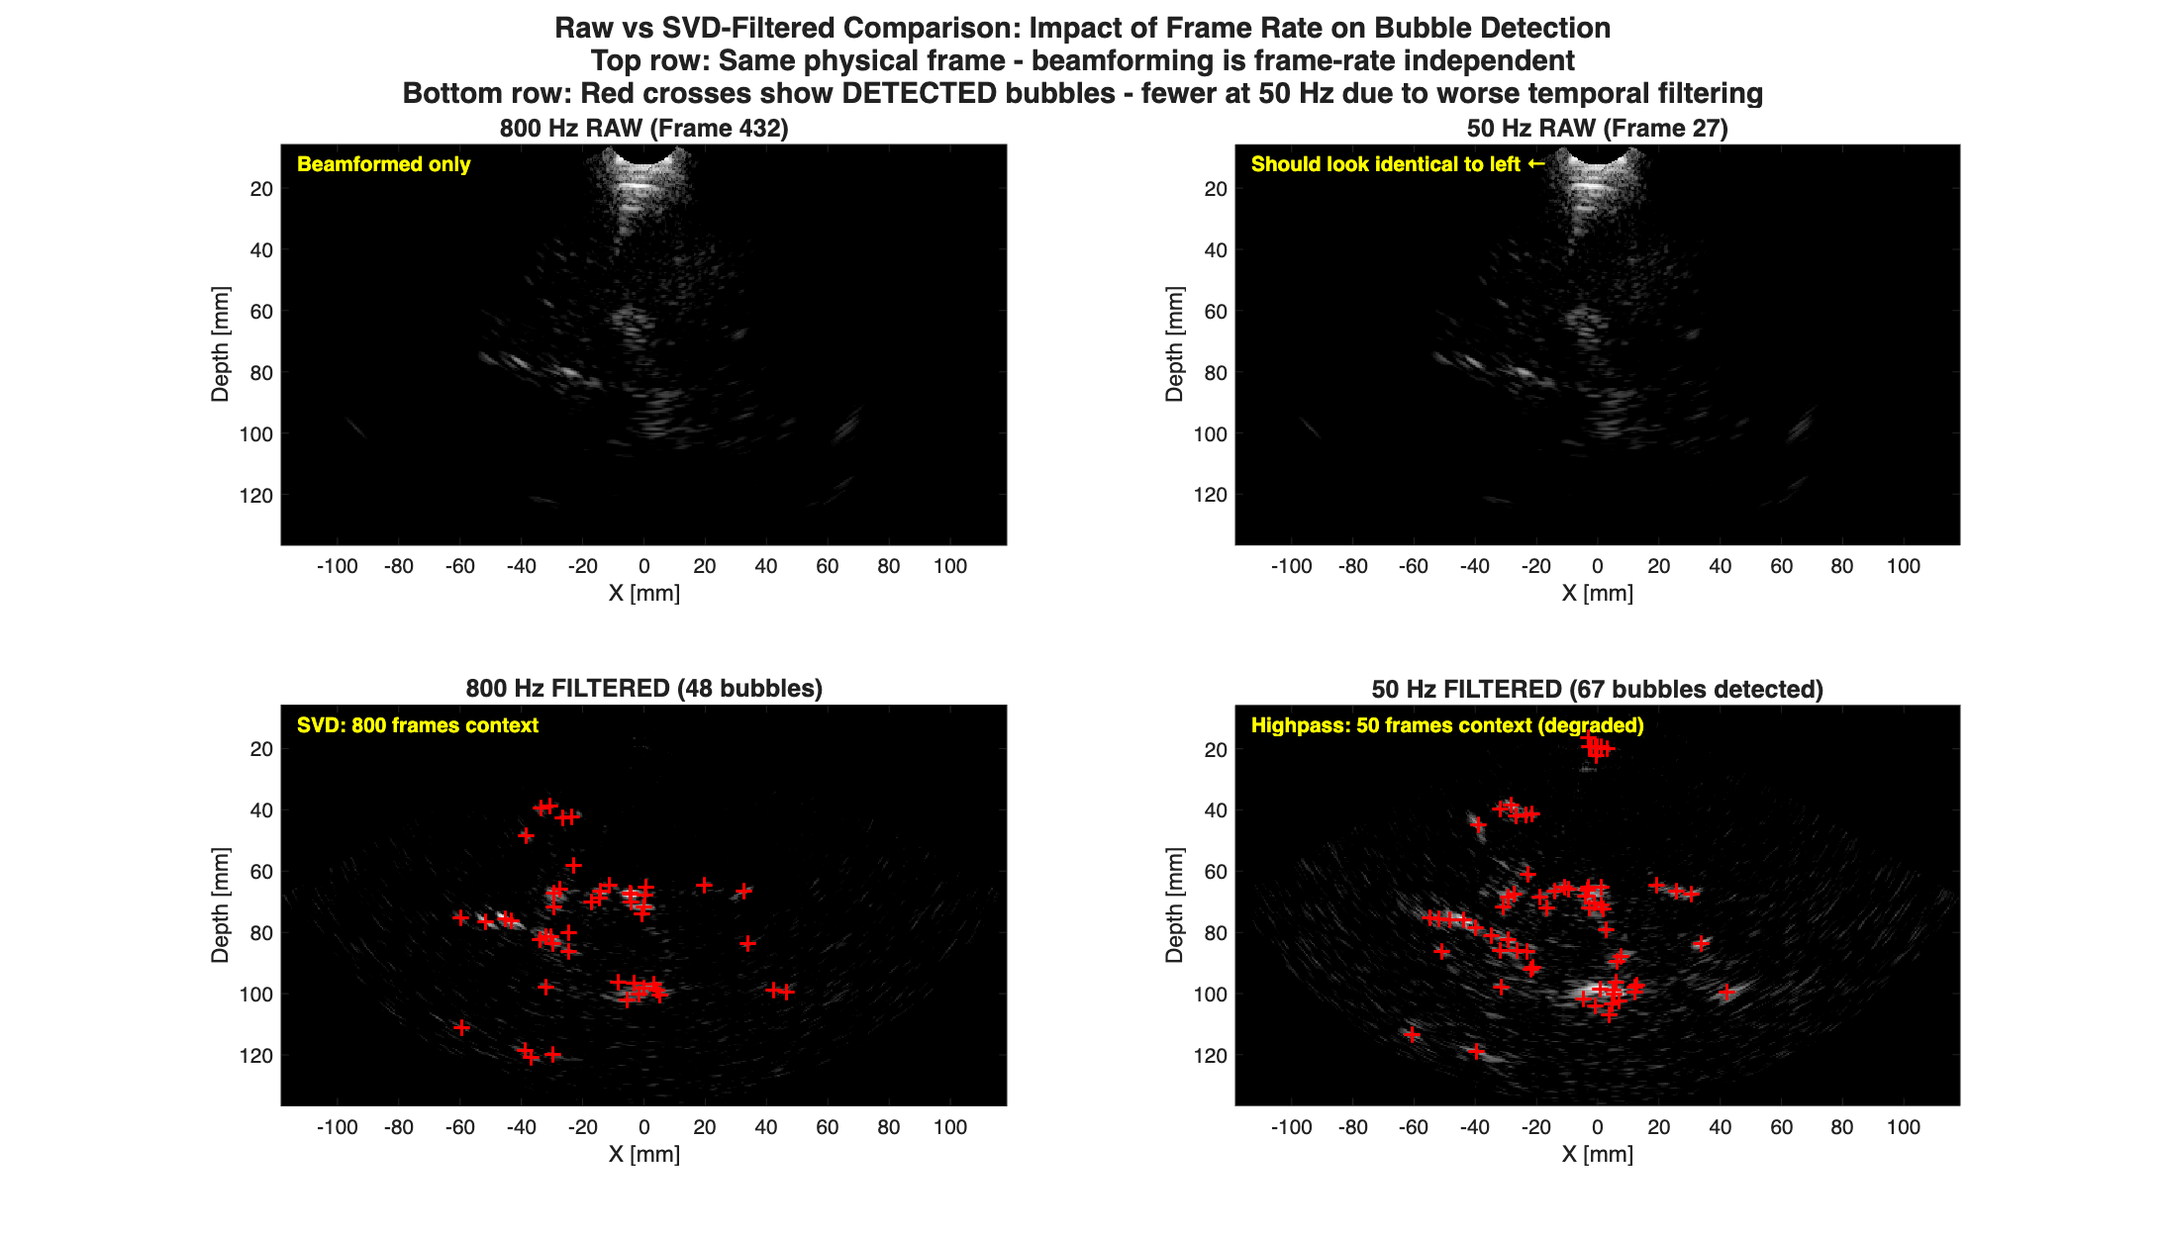
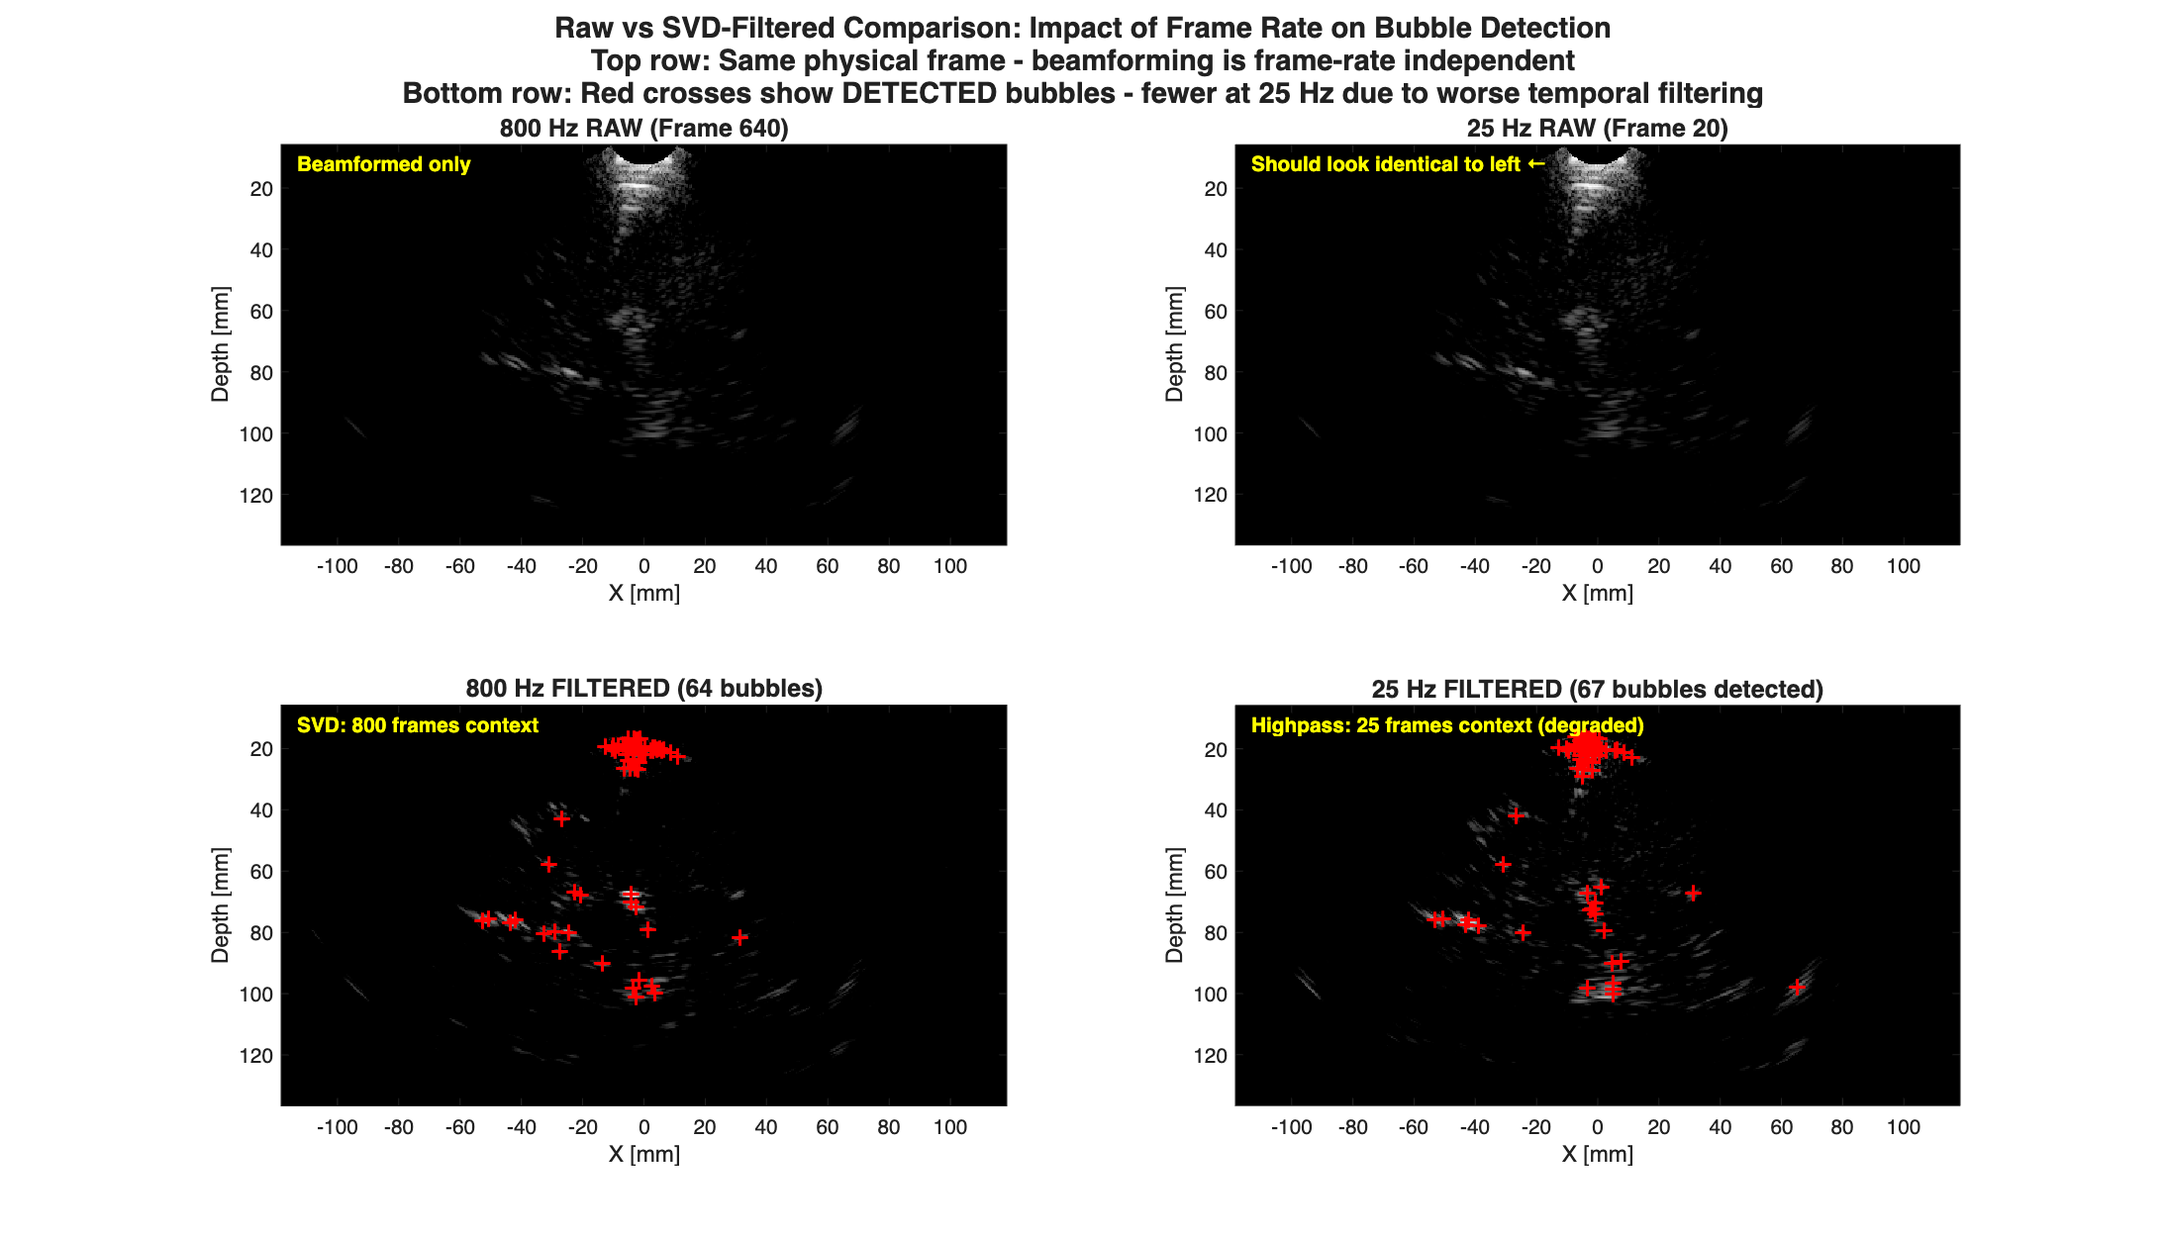
swept frame rates

diff --git a/2_localisation_and_display/compare_frame_rates.m b/2_localisation_and_display/compare_frame_rates.m
@@ -19,7 +19,7 @@ clear; clc; close all;
 %% ========== USER PARAMETERS ==========
 % Target frame rate for downsampled comparison (Hz)
 % Must be < 800 Hz. Recommended values: 20, 50, 100, 200
-target_framerate = 50; % Hz
+target_framerate = 25; % Hz
 
 % High-pass filter cutoff frequency (Hz)
 % Automatically computed as 80% of Nyquist frequency for fair comparison
@@ -48,10 +48,10 @@ num_frames_800Hz = size(IQ_800Hz, 3);
 
 % Apply high-pass filtering to reveal bubbles
 % SVD filtering commented out - using temporal high-pass filter instead
-% sv_cutoff_800Hz = 30;
+% sv_cutoff_800Hz = 100;
 % fprintf('Applying SVD filtering to 800 Hz data (%d frames, removing %d singular values = %.1f%% of frames)...\n', ...
 %     num_frames_800Hz, sv_cutoff_800Hz, 100*sv_cutoff_800Hz/num_frames_800Hz);
-% IQF_800Hz = filterSVD(IQ_800Hz, 1);
+% IQF_800Hz = filterSVD(IQ_800Hz, sv_cutoff_800Hz);
 
 fprintf('Applying high-pass filter to 800 Hz data (%d frames, cutoff = %d Hz)...\n', ...
     num_frames_800Hz, cutoff_freq);
@@ -81,7 +81,7 @@ num_frames_low = size(IQ_low, 3);
 % sv_cutoff_low = round(sv_cutoff_800Hz * num_frames_low / num_frames_800Hz);
 % fprintf('Applying SVD filtering to low framerate data (%d frames, removing %d singular values = %.1f%% of frames)...\n', ...
 %     num_frames_low, sv_cutoff_low, 100*sv_cutoff_low/num_frames_low);
-% IQF_low = filterSVD(IQ_low, 1);
+% IQF_low = filterSVD(IQ_low, sv_cutoff_low);
 
 fprintf('Applying high-pass filter to %.1f Hz data (%d frames, cutoff = %d Hz)...\n', ...
     framerate_low, num_frames_low, cutoff_freq);
@@ -109,7 +109,10 @@ if ~isempty(Bubbles_800Hz_array)
     fprintf('  Mean track length: %.1f frames\n', mean(Bubbles_800Hz_array(:,5)));
     fprintf('  Tracks > 5 frames: %.1f%%\n', ...
         100 * sum(Bubbles_800Hz_array(:,5) > 5) / size(Bubbles_800Hz_array, 1));
+else
+    warning('No bubbles detected at 800 Hz! Check filtering parameters.');
 end
+
 fprintf('%.1f Hz bubbles: %d total\n', framerate_low, size(Bubbles_low_array, 1));
 if ~isempty(Bubbles_low_array)
     fprintf('  Frame range: %.0f to %.0f\n', ...
@@ -117,9 +120,18 @@ if ~isempty(Bubbles_low_array)
     fprintf('  Mean track length: %.1f frames\n', mean(Bubbles_low_array(:,5)));
     fprintf('  Tracks > 5 frames: %.1f%%\n', ...
         100 * sum(Bubbles_low_array(:,5) > 5) / size(Bubbles_low_array, 1));
+else
+    warning('No bubbles detected at %.1f Hz! This may be due to:', framerate_low);
+    fprintf('  - High-pass filter cutoff (%.1f Hz) may be too low (Nyquist = %.1f Hz)\n', ...
+        cutoff_freq, framerate_low/2);
+    fprintf('  - Insufficient temporal filtering with only %d frames\n', num_frames_low);
+    fprintf('  - Consider increasing target_framerate or using more data\n');
 end
-fprintf('Detection ratio: %.1fHz detected %.1f%% of bubbles compared to 800Hz\n', ...
-    framerate_low, 100 * size(Bubbles_low_array, 1) / max(1, size(Bubbles_800Hz_array, 1)));
+
+if ~isempty(Bubbles_800Hz_array)
+    fprintf('Detection ratio: %.1fHz detected %.1f%% of bubbles compared to 800Hz\n', ...
+        framerate_low, 100 * size(Bubbles_low_array, 1) / max(1, size(Bubbles_800Hz_array, 1)));
+end
 
 %% 5. Calculate metrics for both frame rates
 fprintf('\n=== Calculating Tracking Metrics ===\n');
@@ -145,7 +157,8 @@ pixel_size = 0.1*[1 1];
 fprintf('Generating 800 Hz density map...\n');
 % Filter by track length for better quality
 kept_indices_800Hz = Bubbles_800Hz_array(:, 5) > min_size_track;
-fprintf('  Using %d bubbles (track length > %d)\n', sum(kept_indices_800Hz), min_size_track);
+num_bubbles_800Hz = sum(kept_indices_800Hz);
+fprintf('  Using %d bubbles (track length > %d)\n', num_bubbles_800Hz, min_size_track);
 density_map_800Hz = displayImageFromPositions(...
     Bubbles_800Hz_array(kept_indices_800Hz, 2), ...  % Z positions
     Bubbles_800Hz_array(kept_indices_800Hz, 1), ...  % X positions
@@ -159,7 +172,8 @@ fprintf('Generating 800 Hz downsampled density map (every %d bubbles)...\n', dow
 kept_indices_800Hz_all = find(Bubbles_800Hz_array(:, 5) > min_size_track);
 % Downsample the kept bubbles to match low framerate observation count
 downsampled_indices_800Hz = kept_indices_800Hz_all(1:downsample_factor:end);
-fprintf('  Using %d bubbles (downsampled from %d)\n', length(downsampled_indices_800Hz), length(kept_indices_800Hz_all));
+num_bubbles_800Hz_downsampled = length(downsampled_indices_800Hz);
+fprintf('  Using %d bubbles (downsampled from %d)\n', num_bubbles_800Hz_downsampled, length(kept_indices_800Hz_all));
 density_map_800Hz_downsampled = displayImageFromPositions(...
     Bubbles_800Hz_array(downsampled_indices_800Hz, 2), ...  % Z positions
     Bubbles_800Hz_array(downsampled_indices_800Hz, 1), ...  % X positions
@@ -169,14 +183,28 @@ fprintf('  Non-zero pixels: %d\n', sum(density_map_800Hz_downsampled(:) > 0));
 
 % Low framerate density map
 fprintf('Generating %.1f Hz density map...\n', framerate_low);
-kept_indices_low = Bubbles_low_array(:, 5) > min_size_track;
-fprintf('  Using %d bubbles (track length > %d)\n', sum(kept_indices_low), min_size_track);
-density_map_low = displayImageFromPositions(...
-    Bubbles_low_array(kept_indices_low, 2), ...  % Z positions
-    Bubbles_low_array(kept_indices_low, 1), ...  % X positions
-    ZX_boundaries, grid_size, pixel_size);
-fprintf('  Density map range: [%.6f, %.6f]\n', min(density_map_low(:)), max(density_map_low(:)));
-fprintf('  Non-zero pixels: %d\n', sum(density_map_low(:) > 0));
+if ~isempty(Bubbles_low_array)
+    kept_indices_low = Bubbles_low_array(:, 5) > min_size_track;
+    num_bubbles_low = sum(kept_indices_low);
+    fprintf('  Using %d bubbles (track length > %d)\n', num_bubbles_low, min_size_track);
+
+    if num_bubbles_low > 0
+        density_map_low = displayImageFromPositions(...
+            Bubbles_low_array(kept_indices_low, 2), ...  % Z positions
+            Bubbles_low_array(kept_indices_low, 1), ...  % X positions
+            ZX_boundaries, grid_size, pixel_size);
+        fprintf('  Density map range: [%.6f, %.6f]\n', min(density_map_low(:)), max(density_map_low(:)));
+        fprintf('  Non-zero pixels: %d\n', sum(density_map_low(:) > 0));
+    else
+        warning('No bubbles with track length > %d frames. Creating empty density map.', min_size_track);
+        density_map_low = zeros(grid_size);
+        num_bubbles_low = 0;
+    end
+else
+    warning('No bubbles detected at %.1f Hz. Creating empty density map.', framerate_low);
+    density_map_low = zeros(grid_size);
+    num_bubbles_low = 0;
+end
 
 %% 7. Calculate image quality metrics
 fprintf('\n=== Calculating Image Quality Metrics ===\n');
@@ -287,14 +315,157 @@ if ~isnan(ssim_value)
     fprintf('\nStructural similarity (SSIM): %.3f\n', ssim_value);
 end
 
-%% 9. Create visualizations
+%% 9. Generate Power Doppler Images
+fprintf('\n=== Generating Power Doppler Images ===\n');
+
+% Select a representative frame for visualization
+frame_idx = round(num_frames_800Hz / 2); % Middle frame
+frame_idx_low = ceil(frame_idx / downsample_factor);
+
+fprintf('Visualizing frame %d (800 Hz) and frame %d (%.1f Hz)\n', ...
+    frame_idx, frame_idx_low, framerate_low);
+
+% Create Power Doppler figure
+fig_power_doppler = figure('Name', 'Power Doppler Comparison', 'Position', [100 100 1600 600]);
+
+% 800 Hz Power Doppler
+subplot(1, 2, 1);
+% Convert to power (magnitude squared) and to dB
+power_doppler_800 = abs(IQF_800Hz(:,:,frame_idx)).^2;
+power_doppler_800_dB = 10*log10(power_doppler_800 / max(power_doppler_800(:)));
+
+% Scan conversion to Cartesian coordinates
+[power_800_scan, SpaceInfo] = scanConversion(power_doppler_800_dB, ...
+    BFStruct.R_extent, BFStruct.Phi_extent, 512);
+
+imagesc(SpaceInfo.extentX, fliplr(-SpaceInfo.extentY), power_800_scan);
+colormap(gca, hot(256));
+caxis([-40 0]); % 40 dB dynamic range
+colorbar;
+axis equal; axis tight;
+title(sprintf('800 Hz Power Doppler\nFrame %d', frame_idx), 'FontSize', 14, 'FontWeight', 'bold');
+xlabel('X [mm]'); ylabel('Depth [mm]');
+
+% Low framerate Power Doppler
+subplot(1, 2, 2);
+% Convert to power (magnitude squared) and to dB
+power_doppler_low = abs(IQF_low(:,:,frame_idx_low)).^2;
+power_doppler_low_dB = 10*log10(power_doppler_low / max(power_doppler_low(:)));
+
+% Scan conversion to Cartesian coordinates
+[power_low_scan, ~] = scanConversion(power_doppler_low_dB, ...
+    BFStruct.R_extent, BFStruct.Phi_extent, 512);
+
+imagesc(SpaceInfo.extentX, fliplr(-SpaceInfo.extentY), power_low_scan);
+colormap(gca, hot(256));
+caxis([-40 0]); % 40 dB dynamic range
+colorbar;
+axis equal; axis tight;
+title(sprintf('%.1f Hz Power Doppler\nFrame %d', framerate_low, frame_idx_low), ...
+    'FontSize', 14, 'FontWeight', 'bold');
+xlabel('X [mm]'); ylabel('Depth [mm]');
+
+sgtitle({'Power Doppler Comparison (High-Pass Filtered)', ...
+         sprintf('40 dB dynamic range | Cutoff: %d Hz', cutoff_freq)}, ...
+         'FontSize', 16, 'FontWeight', 'bold');
+
+%% 10. Create visualizations
 fprintf('\n=== Creating Visualizations ===\n');
-fig_handles = visualize_comparison(density_map_800Hz, density_map_low, ...
-    metrics_800Hz, metrics_low, ...
-    IQ_800Hz, IQ_low, ...
-    IQF_800Hz, IQF_low, ...
-    Bubbles_800Hz_array, Bubbles_low_array, ...
-    ZX_boundaries, BFStruct, density_map_800Hz_downsampled);
+
+% Diagnostic information
+fprintf('Density map diagnostics:\n');
+fprintf('  800 Hz: max=%.6f, nonzero pixels=%d, size=[%d x %d]\n', ...
+    max(density_map_800Hz(:)), sum(density_map_800Hz(:) > 0), size(density_map_800Hz,1), size(density_map_800Hz,2));
+fprintf('  800 Hz DS: max=%.6f, nonzero pixels=%d\n', ...
+    max(density_map_800Hz_downsampled(:)), sum(density_map_800Hz_downsampled(:) > 0));
+fprintf('  %.1f Hz: max=%.6f, nonzero pixels=%d\n', ...
+    framerate_low, max(density_map_low(:)), sum(density_map_low(:) > 0));
+
+% Create structure with bubble counts for visualization
+bubble_counts = struct();
+bubble_counts.num_800Hz = num_bubbles_800Hz;
+bubble_counts.num_800Hz_downsampled = num_bubbles_800Hz_downsampled;
+bubble_counts.num_low = num_bubbles_low;
+
+% Only create density map comparison (Figure 1 from visualize_comparison)
+try
+    % Calculate downsample factor
+    downsample_factor_vis = round(size(IQ_800Hz, 3) / size(IQ_low, 3));
+    low_framerate_vis = round(800 / downsample_factor_vis);
+
+    % Create density map comparison figure
+    fig_density = figure('Name', 'Density Map Comparison', 'Position', [100 100 1800 800]);
+
+    % 800 Hz density map (all data)
+    subplot(2, 2, 1);
+    imagesc(ZX_boundaries(3:4), -ZX_boundaries(2:-1:1), density_map_800Hz.^0.45);
+    colormap(gca, hot(256));
+    axis tight; axis equal;
+    caxis([0 0.95]);
+    title(sprintf('800 Hz - All Data\n(%d bubbles)', bubble_counts.num_800Hz), 'FontSize', 14, 'FontWeight', 'bold');
+    xlabel('X [mm]'); ylabel('Depth [mm]');
+    colorbar;
+
+    % 800 Hz downsampled
+    subplot(2, 2, 2);
+    imagesc(ZX_boundaries(3:4), -ZX_boundaries(2:-1:1), density_map_800Hz_downsampled.^0.45);
+    colormap(gca, hot(256));
+    axis tight; axis equal;
+    caxis([0 0.95]);
+    title(sprintf('800 Hz - Downsampled (1/%d obs)\n(%d bubbles)', downsample_factor_vis, bubble_counts.num_800Hz_downsampled), ...
+        'FontSize', 14, 'FontWeight', 'bold');
+    xlabel('X [mm]'); ylabel('Depth [mm]');
+    colorbar;
+    text(0.5, 0.98, 'Shows effect of fewer observations', ...
+        'Units', 'normalized', 'HorizontalAlignment', 'center', ...
+        'VerticalAlignment', 'top', 'Color', 'yellow', 'FontSize', 10, 'FontWeight', 'bold');
+
+    % Low framerate actual
+    subplot(2, 2, 3);
+    imagesc(ZX_boundaries(3:4), -ZX_boundaries(2:-1:1), density_map_low.^0.45);
+    colormap(gca, hot(256));
+    axis tight; axis equal;
+    caxis([0 0.95]);
+    title(sprintf('%d Hz - Actual\n(%d bubbles)', low_framerate_vis, bubble_counts.num_low), 'FontSize', 14, 'FontWeight', 'bold');
+    xlabel('X [mm]'); ylabel('Depth [mm]');
+    colorbar;
+    text(0.5, 0.98, 'Shows combined effect of sampling + detection', ...
+        'Units', 'normalized', 'HorizontalAlignment', 'center', ...
+        'VerticalAlignment', 'top', 'Color', 'yellow', 'FontSize', 10, 'FontWeight', 'bold');
+
+    % Difference map
+    subplot(2, 2, 4);
+    diff_map = density_map_800Hz_downsampled - density_map_low;
+    imagesc(ZX_boundaries(3:4), -ZX_boundaries(2:-1:1), diff_map);
+
+    % Create blue-white-red colormap (coolwarm alternative)
+    n = 256;
+    r = [linspace(0, 1, n/2), ones(1, n/2)];
+    g = [linspace(0, 1, n/2), linspace(1, 0, n/2)];
+    b = [ones(1, n/2), linspace(1, 0, n/2)];
+    colormap(gca, [r', g', b']);
+
+    axis tight; axis equal;
+    max_diff = max(abs(diff_map(:)));
+    if max_diff > 0
+        caxis([-max_diff, max_diff]);
+    else
+        caxis([-1, 1]);
+    end
+    title(sprintf('Difference (800Hz DS - %dHz)', low_framerate_vis), 'FontSize', 14, 'FontWeight', 'bold');
+    xlabel('X [mm]'); ylabel('Depth [mm]');
+    colorbar;
+    text(0.5, 0.98, 'Isolates temporal sampling effect', ...
+        'Units', 'normalized', 'HorizontalAlignment', 'center', ...
+        'VerticalAlignment', 'top', 'Color', 'yellow', 'FontSize', 10, 'FontWeight', 'bold');
+
+    sgtitle({'Density Map Comparison: Isolating Effects of Frame Rate', ...
+             'Top row: 800 Hz (all data vs downsampled) | Bottom row: Low framerate actual vs difference'}, ...
+             'FontSize', 16, 'FontWeight', 'bold');
+
+    drawnow;
+    fprintf('Successfully created density map comparison figure\n');
+end
 
 % Save figures as PNG
 fprintf('\n=== Saving Figures ===\n');
@@ -303,17 +474,18 @@ if ~exist(figures_dir, 'dir')
     mkdir(figures_dir);
 end
 
-figure_names = {'density_map_comparison', 'raw_vs_filtered', ...
-                'tracking_trajectories', 'quantitative_metrics'};
+% Save Power Doppler figure
+if exist('fig_power_doppler', 'var') && ishghandle(fig_power_doppler)
+    filename = fullfile(figures_dir, 'power_doppler_comparison.png');
+    saveas(fig_power_doppler, filename);
+    fprintf('  Saved: power_doppler_comparison.png\n');
+end
 
-for i = 1:length(fig_handles)
-    if ishghandle(fig_handles(i))
-        filename = fullfile(figures_dir, sprintf('%s.png', figure_names{i}));
-        saveas(fig_handles(i), filename);
-        fprintf('  Saved: %s.png\n', figure_names{i});
-    else
-        warning('Figure %d handle is invalid, cannot save %s', i, figure_names{i});
-    end
+% Save Density Map figure
+if exist('fig_density', 'var') && ishghandle(fig_density)
+    filename = fullfile(figures_dir, 'density_map_comparison.png');
+    saveas(fig_density, filename);
+    fprintf('  Saved: density_map_comparison.png\n');
 end
 
 fprintf('\n=================================================\n');

diff --git a/2_localisation_and_display/functions/visualize_comparison.m b/2_localisation_and_display/functions/visualize_comparison.m
@@ -3,7 +3,7 @@ function fig_handles = visualize_comparison(density_800Hz, density_low, ...
     IQ_800Hz, IQ_low, ...
     IQF_800Hz, IQF_low, ...
     Bubbles_800Hz, Bubbles_low, ...
-    ZX_boundaries, BFStruct, density_800Hz_downsampled)
+    ZX_boundaries, BFStruct, density_800Hz_downsampled, bubble_counts)
 %VISUALIZE_COMPARISON Create comprehensive visualizations comparing frame rates
 %
 %   Creates multiple figures to visualize the impact of frame rate on:
@@ -24,6 +24,17 @@ function fig_handles = visualize_comparison(density_800Hz, density_low, ...
     fprintf('Visualization: 800 Hz (%d frames) vs %d Hz (%d frames), downsample factor = %d\n', ...
         size(IQ_800Hz, 3), low_framerate, size(IQ_low, 3), downsample_factor);
 
+    % Extract bubble counts (use defaults if not provided)
+    if nargin >= 11 && ~isempty(bubble_counts)
+        n_800 = bubble_counts.num_800Hz;
+        n_800_ds = bubble_counts.num_800Hz_downsampled;
+        n_low = bubble_counts.num_low;
+    else
+        n_800 = NaN;
+        n_800_ds = NaN;
+        n_low = NaN;
+    end
+
     %% Figure 1: Side-by-side density map comparison (4 panels)
     fig_handles(1) = figure('Name', 'Density Map Comparison', 'Position', [100 100 1800 800]);
 
@@ -33,7 +44,11 @@ function fig_handles = visualize_comparison(density_800Hz, density_low, ...
     colormap(gca, hot(256));
     axis tight; axis equal;
     caxis([0 0.95]);
-    title('800 Hz - All Data', 'FontSize', 14, 'FontWeight', 'bold');
+    if ~isnan(n_800)
+        title(sprintf('800 Hz - All Data\n(%d bubbles)', n_800), 'FontSize', 14, 'FontWeight', 'bold');
+    else
+        title('800 Hz - All Data', 'FontSize', 14, 'FontWeight', 'bold');
+    end
     xlabel('X [mm]'); ylabel('Depth [mm]');
     colorbar;
 
@@ -44,7 +59,13 @@ function fig_handles = visualize_comparison(density_800Hz, density_low, ...
         colormap(gca, hot(256));
         axis tight; axis equal;
         caxis([0 0.95]);
-        title(sprintf('800 Hz - Downsampled (1/%d observations)', downsample_factor), 'FontSize', 14, 'FontWeight', 'bold');
+        if ~isnan(n_800_ds)
+            title(sprintf('800 Hz - Downsampled (1/%d obs)\n(%d bubbles)', downsample_factor, n_800_ds), ...
+                'FontSize', 14, 'FontWeight', 'bold');
+        else
+            title(sprintf('800 Hz - Downsampled (1/%d observations)', downsample_factor), ...
+                'FontSize', 14, 'FontWeight', 'bold');
+        end
         xlabel('X [mm]'); ylabel('Depth [mm]');
         colorbar;
         text(0.5, 0.98, 'Shows effect of fewer observations', ...
@@ -61,7 +82,11 @@ function fig_handles = visualize_comparison(density_800Hz, density_low, ...
     colormap(gca, hot(256));
     axis tight; axis equal;
     caxis([0 0.95]);
-    title(sprintf('%d Hz - Actual', low_framerate), 'FontSize', 14, 'FontWeight', 'bold');
+    if ~isnan(n_low)
+        title(sprintf('%d Hz - Actual\n(%d bubbles)', low_framerate, n_low), 'FontSize', 14, 'FontWeight', 'bold');
+    else
+        title(sprintf('%d Hz - Actual', low_framerate), 'FontSize', 14, 'FontWeight', 'bold');
+    end
     xlabel('X [mm]'); ylabel('Depth [mm]');
     colorbar;
     text(0.5, 0.98, 'Shows combined effect of sampling + detection', ...
